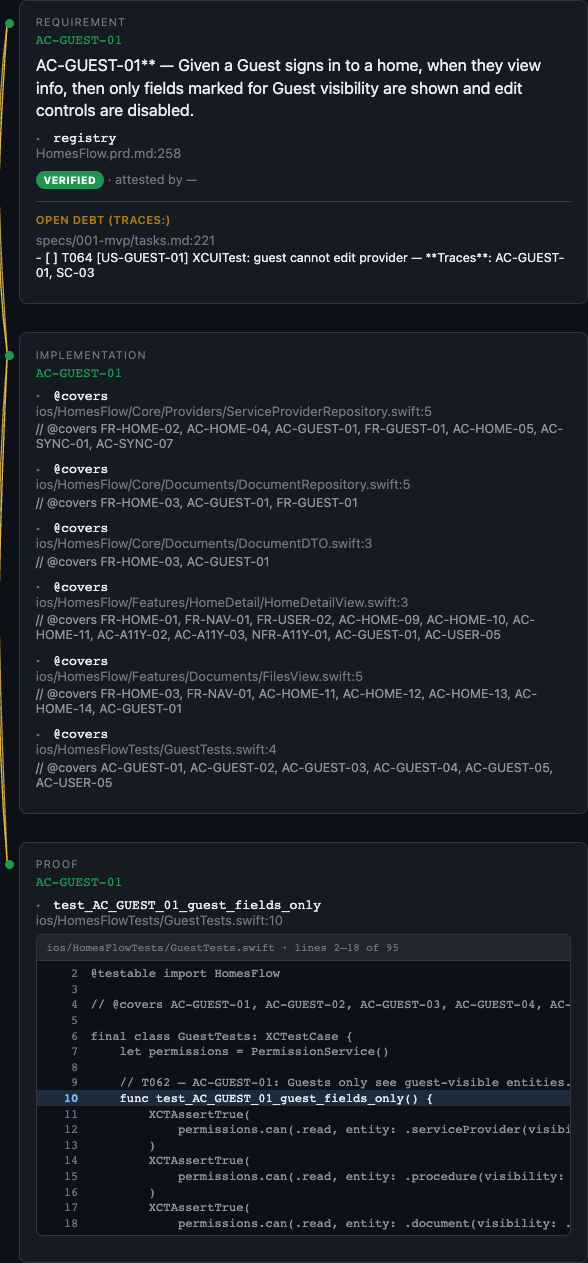
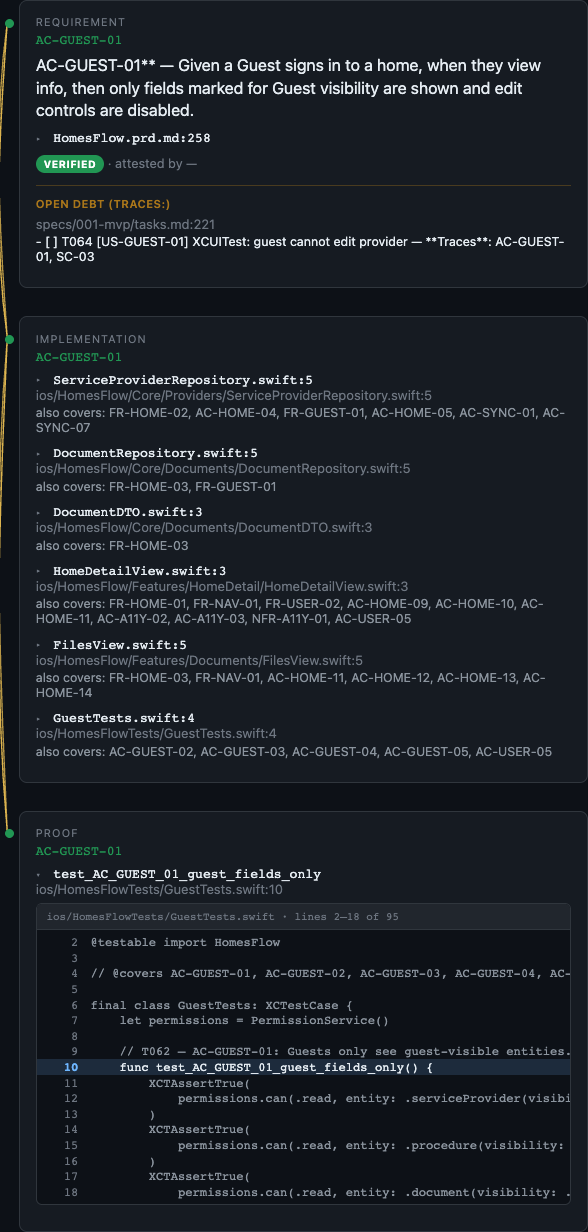
Plain-language explainers, at-rest viewer principle, field-guide captures for file:line toggles.
README and the vendored gate README open with the wish/work/proof string
metaphor (clew etymology noted once). clew-schema Consumers section states
that renderings must carry meaning at rest. Field-guide screenshots and
prose updated for the relabeled descent toggles; board-lens shot unchanged.

diff --git a/docs/loupe-field-guide.md b/docs/loupe-field-guide.md
@@ -36,9 +36,9 @@ Same rows, partitioned by status in the same flow order:
 
 Click any row and the right pane walks its golden thread top to bottom:
 
-- **Requirement**: the durable ID and its statement, plus a **▸ registry** toggle that expands to the actual PRD/registry source around the line where the ID was minted.
-- **Implementation**: every `@covers` carrier found in source, each expandable to the real code around it.
-- **Proof**: named tests that encode the ID (for ACs), expandable the same way.
+- **Requirement**: the durable ID and its statement, plus a **▸ file:line** toggle (e.g. `HomesFlow.prd.md:258`) that expands to the actual PRD/registry source around the line where the ID was minted.
+- **Implementation**: every `@covers` carrier found in source. Each is labeled with the carrier's **file basename and line** (e.g. `HomeDetailView.swift:3`), with the full path below and an "also covers: …" line naming the other IDs that share the same annotation. Each expands to the real code around it.
+- **Proof**: named tests that encode the ID (for ACs), labeled by test name with the path below, expandable the same way.
 
 Every claim in the descent can be opened to the file and line that backs it — requirement included. The braided line down the left side is the thread itself. Its two states matter more than any color: **solid** means the thread holds; **frayed** means it is broken.
 
@@ -46,7 +46,7 @@ Every claim in the descent can be opened to the file and line that backs it — 
 
 ![Verified descent](images/03-verified-descent.png)
 
-`AC-GUEST-01` end to end: the requirement statement with its registry line (`HomesFlow.prd.md:258`), six `@covers` carriers, and a named proof `test_AC_GUEST_01_guest_fields_only`, expanded to the real test code. Green nodes, solid braid. This is what "verified" means: a named artifact you can open, not "the tests passed once."
+`AC-GUEST-01` end to end: the requirement statement with its registry line (`HomesFlow.prd.md:258`), six `@covers` carriers each labeled by file and line, and a named proof `test_AC_GUEST_01_guest_fields_only`, expanded to the real test code. Green nodes, solid braid. This is what "verified" means: a named artifact you can open, not "the tests passed once."
 
 Note this verified row also carries an **Open debt (Traces:)** block — an XCUITest still open on `T064`. Verified with additional open work is a normal, honest state.
 
@@ -56,7 +56,7 @@ Note this verified row also carries an **Open debt (Traces:)** block — an XCUI
 
 `AC-HOME-10` is not done, and the clew shows exactly who says so:
 
-- The **▸ registry** expand is open: the PRD source around line 221, the requirement in its own words.
+- The registry expand (**▸ HomesFlow.prd.md:221**) is open: the PRD source around that line, the requirement in its own words.
 - The **Open debt (Traces:)** block names the literal open checkbox task (`T024e`, snapshot/UI test deferred until test infra exists) that claims this ID.
 - Implementation is green: `@covers AC-HOME-10` carriers exist in source. Proof is red but the braid stays solid.
 
@@ -105,7 +105,7 @@ The scratch tree after the staged break. Three things change at once:
 | Solid braid, green nodes | Thread holds; proof exists |
 | Solid braid, red node(s) | Incomplete but excused: tracked debt or backlog altitude |
 | Open debt (Traces:) block | The exact open task that excuses (or carries) the incompleteness |
-| ▸ registry / ▸ @covers / test name | Expand to the actual source line behind the claim |
+| ▸ file:line / ▸ test name | Expand to the actual source behind the claim |
 | Frayed braid | Thread broken: silent gap, or Gate refused clew-wide |
 | Red banner, hot GAP tile | At least one AC has neither proof nor admitted debt |
 

diff --git a/README.md b/README.md
@@ -1,5 +1,7 @@
 # Clewseau
 
+When people build things, we tie a piece of string from the **wish**, to the **work**, to the **proof it's done**. Clewseau is the inspector who makes sure nobody skips the string: every wish gets a name, every bit of work says which wish it's for, and every wish needs its proof. If a string is missing or broken, Clewseau stops the line and points at the loose end. Then it winds all the string into a ball and saves it in a file — that ball of string is called a **clew** — so anyone can check it later, even long after everyone's gone home. (A *clew* is literally a ball of thread — the one Ariadne handed Theseus so he could find his way back out of the labyrinth.)
+
 A Spec Kit **bundle**: durable-ID grammar in the templates, Gate 2 refusal of silent gaps, and emission of a **clew** (default file `clew.json`).
 
 Stock Spec Kit only. No fork. No kanban daemon. Visualization is separate (**clewloupe** consumes the clew; it does not re-scan).
@@ -42,6 +44,8 @@ Gate 2 always writes a Clewseau-native **clew** (default path `clew.json`, confi
 | **clewloupe** | Viewer only; consumes a clew; no target re-scan. |
 
 Preset paste-ready article + glossary stub: `presets/clewseau/templates/constitution-template.md`, `presets/clewseau/GLOSSARY.md`.
+
+Convention: reader-facing repos (this one, clewloupe, the vendored gate README) open with a plain-language explainer like the one at the top of this file — keep it when rewriting.
 
 ## Samples
 

diff --git a/extensions/clewseau-gate/README.md b/extensions/clewseau-gate/README.md
@@ -1,5 +1,7 @@
 # Clewseau Gate
 
+Every **wish** gets a string tied to its **work** and its **proof**; this Gate stops the line at any loose end, then winds all the string it found into a ball — the **clew**.
+
 Gate 2: compare the ID registry to specs, tasks, coverage annotations, and test names. **Exact-set** registry ≡ specs ≡ tasks. Silent AC gaps and untraced scope fail. **Always writes a clew** (default `clew.json`, configurable via `clew_path`) for clewloupe or any matrix consumer.
 
 Install:

diff --git a/docs/clew-schema.md b/docs/clew-schema.md
@@ -71,4 +71,4 @@ Older clew files may omit `debtTasks` / `registry` or still carry unused `blocke
 
 ## Consumers
 
-**clewloupe** (viewer) reads `clew.json` only. It must not re-scan the target.
+**clewloupe** (viewer) reads `clew.json` only. It must not re-scan the target. Every rendering must carry its meaning at rest — printed or screenshotted, it still testifies; links, hovers, expands, and live source fetches are courtesies to the reader, never load-bearing parts of the record.
